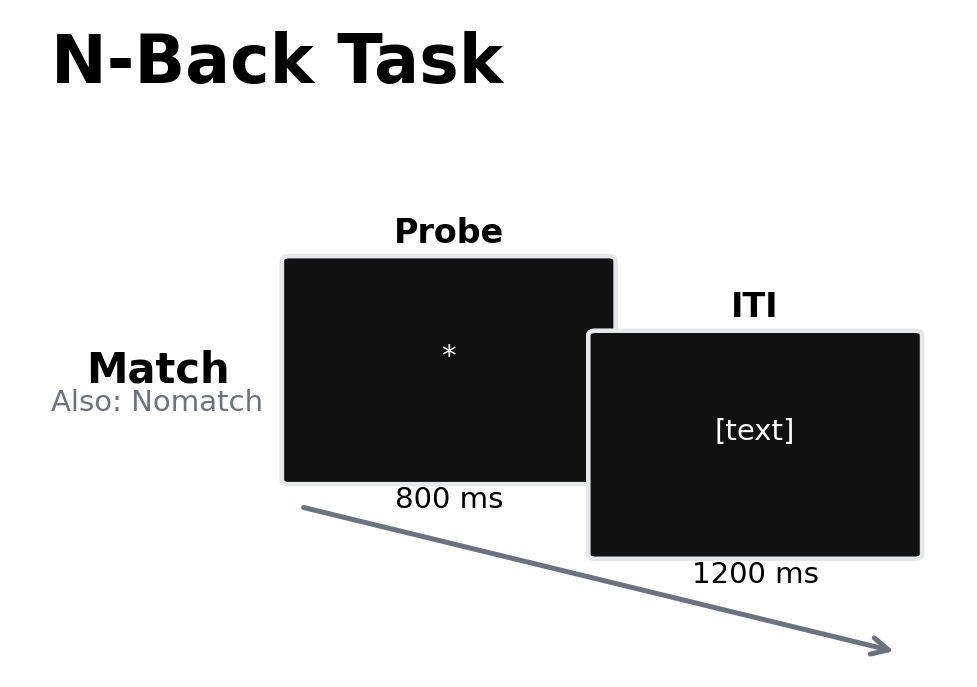
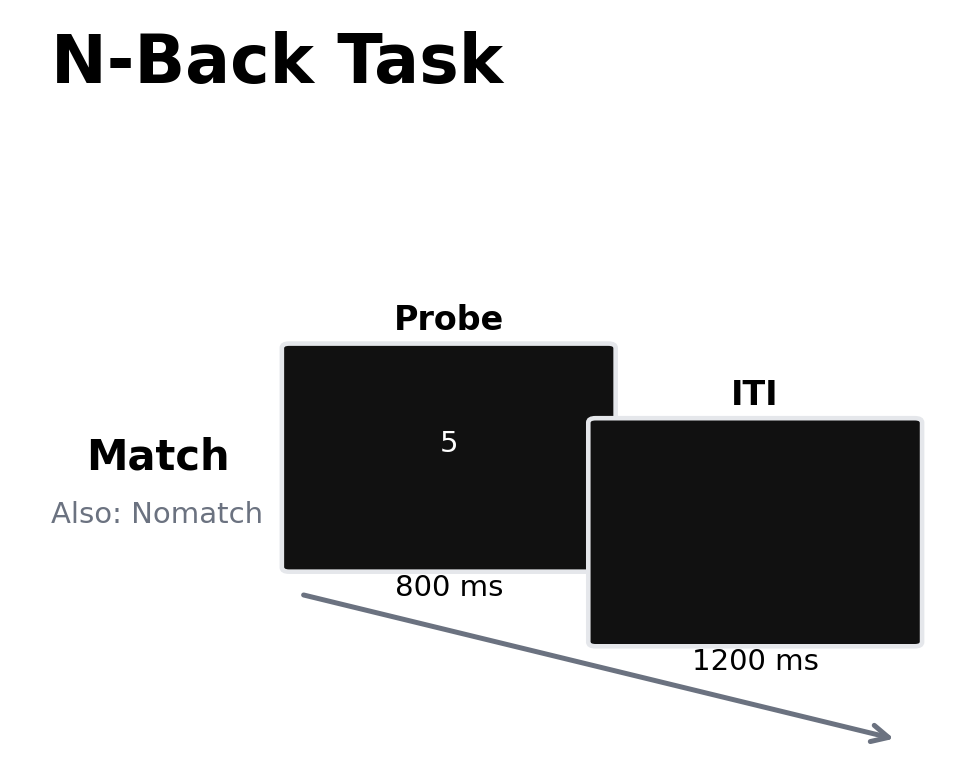
update T000008-nback task-plot artifacts from redo branch

diff --git a/references/task_plot_audit.md b/references/task_plot_audit.md
@@ -1,68 +1,78 @@
-# Task Plot Audit
+# Task Plot 审计
 
-- generated_at: 2026-03-10T00:17:30
+- generated_at: 2026-03-23T23:15:43
 - mode: existing
-- task_path: E:\Taskbeacon\T000008-nback
+- task_path: E:\xhmhc\TaskBeacon\benchmark\runs\task_plot_redo\T000008-nback
 
-## 1. Inputs and provenance
+## 1. 输入与来源
 
-- E:\Taskbeacon\T000008-nback\README.md
-- E:\Taskbeacon\T000008-nback\config\config.yaml
-- E:\Taskbeacon\T000008-nback\src\run_trial.py
+- `README.md`: `E:\xhmhc\TaskBeacon\benchmark\runs\task_plot_redo\T000008-nback\README.md`
+- `config.yaml`: `E:\xhmhc\TaskBeacon\benchmark\runs\task_plot_redo\T000008-nback\config\config.yaml`
+- `run_trial.py`: `E:\xhmhc\TaskBeacon\benchmark\runs\task_plot_redo\T000008-nback\src\run_trial.py`
 
-## 2. Evidence extracted from README
+## 2. 从 README 提取的证据
 
-- | Step | Description |
-- |---|---|
-- | 1. Digit Presentation | A digit is presented on the screen for the duration specified by `probe_duration`. The participant can respond during this time. |
-- | 2. Inter-Trial Interval (ITI) | A blank screen is shown for the duration specified by `iti_duration`. |
+- README 的任务流分为块级流程和试次级流程两层。
+- 块级流程说明了 `1-back` 和 `2-back` 的块组织、块间休息以及结束页。
+- 试次级流程只包含两步：数字呈现与 ITI 空屏。
 
-## 3. Evidence extracted from config/source
+## 3. 从 config/source 提取的证据
 
-- match: phase=nback probe response, deadline_expr=settings.probe_duration, response_expr=n/a, stim_expr='stim_digit'
-- match: phase=inter trial interval, deadline_expr=settings.iti_duration, response_expr=n/a, stim_expr='stim_iti'
-- nomatch: phase=nback probe response, deadline_expr=settings.probe_duration, response_expr=n/a, stim_expr='stim_digit'
-- nomatch: phase=inter trial interval, deadline_expr=settings.iti_duration, response_expr=n/a, stim_expr='stim_iti'
+- `match`：`probe_unit = make_unit(unit_label="nback_probe").add_stim(stim_bank.rebuild("stim_digit", text=_digit))`，随后 `set_trial_context(... phase="nback_probe_response", deadline_s=settings.probe_duration, stim_id="stim_digit")`，再用 `capture_response(..., duration=settings.probe_duration, terminate_on_response=True)`；这是 800 ms 的数字呈现与反应窗。
+- `nomatch`：与 `match` 使用同一套阶段顺序和时序，只是正确反应键由条件决定，因此在图中折叠为等价变体。
+- `ITI`：`iti_unit = make_unit(unit_label="iti").add_stim(stim_bank.get("stim_iti"))`，随后 `set_trial_context(... phase="inter_trial_interval", deadline_s=settings.iti_duration, stim_id="stim_iti")`，最后 `iti_unit.show(settings.iti_duration)`；这是 1200 ms 的空屏。
+- `Probe` 的实际运行内容不是配置里的 `*`，而是运行时重建后的数字字符串 `_digit`。
 
-## 4. Mapping to task_plot_spec
+## 3b. 警告
 
-- timeline collection: one representative timeline per unique trial logic
-- phase flow inferred from run_trial set_trial_context order and branch predicates
-- participant-visible show() phases without set_trial_context are inferred where possible and warned
-- duration/response inferred from deadline/capture expressions
-- stimulus examples inferred from stim_id + config stimuli
-- conditions with equivalent phase/timing logic collapsed and annotated as variants
-- root_key: task_plot_spec
-- spec_version: 0.2
+- 无。`run_trial.py` 中这两个参与者可见阶段都带有 `set_trial_context(...)`。
 
-## 5. Style decision and rationale
+## 4. 映射到 task_plot_spec
 
-- Single timeline-collection view selected by policy: one representative condition per unique timeline logic.
+- `root_key`: `task_plot_spec`
+- `spec_version`: `0.2`
+- 采用“一条代表性时间线 + 等价变体注记”的集合式图形。
+- 由于 `match` 与 `nomatch` 的阶段顺序和时序相同，图中保留 `Match` 作为代表性时间线，并把 `Nomatch` 作为等价变体折叠到同一行。
+- `Probe` 的图示从配置占位 `*` 修正为示例数字 `5`，更贴近运行时实际看到的数字刺激。
+- `ITI` 的图示改为不可见占位图元，用来表达空屏，避免渲染成 `[text]` 占位。
 
-## 6. Rendering parameters and constraints
+## 5. 样式决策与理由
 
-- output_file: task_flow.png
-- dpi: 300
-- max_conditions: 4
-- screens_per_timeline: 6
-- screen_overlap_ratio: 0.1
-- screen_slope: 0.08
-- screen_slope_deg: 25.0
-- screen_aspect_ratio: 1.4545454545454546
-- qa_mode: local
-- auto_layout_feedback:
-  - layout pass 1: crop-only; left=0.052, right=0.053, blank=0.185
-- auto_layout_feedback_records:
-  - pass: 1
-    metrics: {'left_ratio': 0.0522, 'right_ratio': 0.0532, 'blank_ratio': 0.1849}
+- 继续使用 timeline collection，因为这是 task-plot 的固定图型。
+- 这个任务没有独立的显性反馈阶段，最有信息量的内容就是试次里的 `Probe` 与 `ITI`。
+- 只保留一条代表性时间线可以避免 `match/nomatch` 的重复展示，同时保留条件变体注记，便于审计。
 
-## 7. Output files and checksums
+## 6. 渲染参数与约束
 
-- E:\Taskbeacon\T000008-nback\references\task_plot_spec.yaml: sha256=159d9a049b9feab39b11600572ff86b2ba7921c0679a2fc115af2a83ce81ba13
-- E:\Taskbeacon\T000008-nback\references\task_plot_spec.json: sha256=f953273e331668b40794183feed4d13425ea7e66bb0a2c0a7aea0b51742f66f4
-- E:\Taskbeacon\T000008-nback\references\task_plot_source_excerpt.md: sha256=eec4196b83da9a1841e1cd61de6081969e9c1933a39a9ec7d8195ca06372388a
-- E:\Taskbeacon\T000008-nback\task_flow.png: sha256=a1b6c272d15d6c61936b3d91ffbed9acaf378017e746e6767ab8d0e525e28f9f
+- `output_file`: `task_flow.png`
+- `dpi`: `300`
+- `max_conditions`: `2`
+- `screens_per_timeline`: `4`
+- `screen_overlap_ratio`: `0.1`
+- `screen_slope`: `0.08`
+- `screen_slope_deg`: `25.0`
+- `screen_aspect_ratio`: `1.4545454545454546`
+- `left_margin`: `0.2`
+- `right_margin`: `0.03`
+- `top_margin`: `0.03`
+- `bottom_margin`: `0.05`
+- `qa_mode`: `local`
+- `auto_layout_feedback`:
+  - `layout pass 1: crop-only; left=0.052, right=0.053, blank=0.177`
+- `auto_layout_feedback_records`:
+  - `pass: 1`
+    `metrics`: `{'left_ratio': 0.0522, 'right_ratio': 0.0532, 'blank_ratio': 0.177}`
+- `validator_warnings`: 无
 
-## 8. Inferred/uncertain items
+## 7. 输出文件与校验和
 
-- collapsed equivalent condition logic into representative timeline: match, nomatch
[4 lines of base64/hex data omitted]
+
+## 8. 推断项与不确定项
+
+- `match` 与 `nomatch` 在试次层面共享同一套阶段顺序和时序，因此图中折叠为代表性时间线。
+- `Probe` 的实际刺激内容来自运行时重建后的 `_digit`，无法在静态代码中固定成唯一数字，所以图中只选了一个示例数字 `5`。
+- `ITI` 是空屏阶段，图中使用不可见占位图元来表达，以避免把它画成带文字的占位屏幕。

diff --git a/references/task_plot_source_excerpt.md b/references/task_plot_source_excerpt.md
@@ -1,12 +1,18 @@
-# Source Excerpt (N-Back Task)
+# 源码摘录（N-Back Task）
 
-## Input Files
-- README: E:\Taskbeacon\T000008-nback\README.md
-- Config: E:\Taskbeacon\T000008-nback\config\config.yaml
-- run_trial: E:\Taskbeacon\T000008-nback\src\run_trial.py
+## 输入文件
+- `README.md`: `E:\xhmhc\TaskBeacon\benchmark\runs\task_plot_redo\T000008-nback\README.md`
+- `config.yaml`: `E:\xhmhc\TaskBeacon\benchmark\runs\task_plot_redo\T000008-nback\config\config.yaml`
+- `run_trial.py`: `E:\xhmhc\TaskBeacon\benchmark\runs\task_plot_redo\T000008-nback\src\run_trial.py`
 
-## Selected Conditions
-- match
+## 选定条件
+- `match`（代表性时间线，`nomatch` 作为等价变体折叠）
 
-## Note
-- Timelines were inferred from run_trial phase/context calls with condition-branch filtering.
+## 关键试次流程证据
+- `Probe`：`probe_unit = make_unit(unit_label="nback_probe").add_stim(stim_bank.rebuild("stim_digit", text=_digit))`。随后 `set_trial_context(... phase="nback_probe_response", deadline_s=settings.probe_duration, ... stim_id="stim_digit")`，再调用 `capture_response(..., duration=settings.probe_duration, terminate_on_response=True)`，对应 800 ms 的数字呈现与反应窗。
+- `ITI`：`iti_unit = make_unit(unit_label="iti").add_stim(stim_bank.get("stim_iti"))`。随后 `set_trial_context(... phase="inter_trial_interval", deadline_s=settings.iti_duration, ... stim_id="stim_iti")`，最后 `iti_unit.show(settings.iti_duration)`，对应 1200 ms 的空屏。
+
+## 备注
+- README 中的 `Block-Level Flow` 说明了 1-back / 2-back 的块级组织；试次级流程以 `run_trial.py` 为准。
+- 本次绘图只保留一个代表性时间线，因为 `match` 与 `nomatch` 的阶段顺序与时序一致。
+- 图中 `Probe` 使用示例数字 `5` 表示参与者看到的数字刺激；`ITI` 使用不可见占位图元表示空屏，避免渲染成 `[text]` 占位。

diff --git a/README.md b/README.md
@@ -21,7 +21,8 @@ This task is a classic N-Back cognitive test. Participants are shown a sequence 
 
 ## 2. Task Flow
 
-![Task flow](./task_flow.png)
+![Task Flow](task_flow.png)
+
 ### Block-Level Flow
 | Step | Description |
 |---|---|
